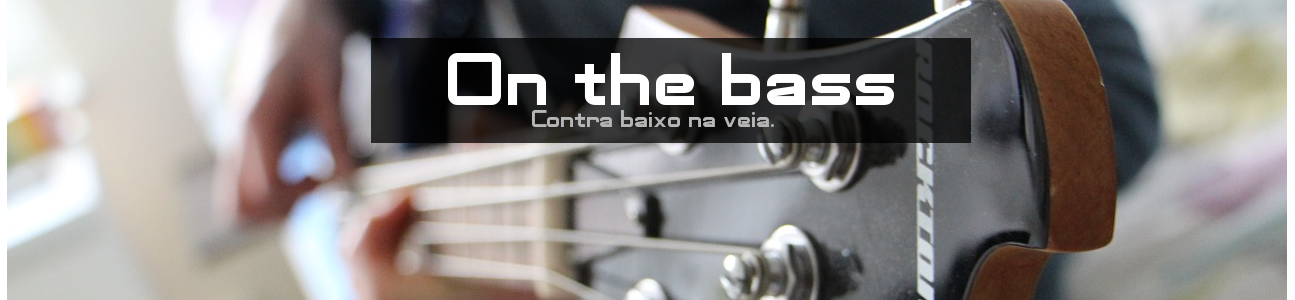
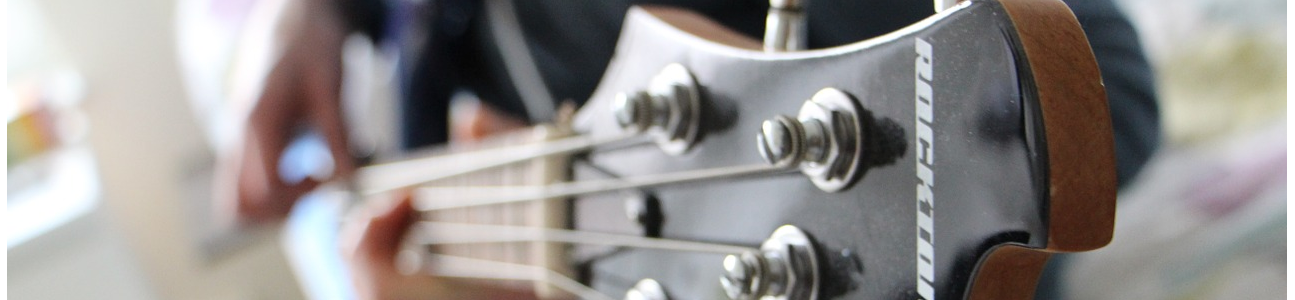
formatando contant tablet e desktop

Changed region(s): [[0.278, 0.12, 0.7722, 0.48]]

diff --git a/wp-content/themes/nova-lite /css/tablet.css b/wp-content/themes/nova-lite /css/tablet.css
@@ -1,0 +1,75 @@
+@media screen and (min-width: 701px) and (max-width: 1024px) { 
+	
+	body { 
+	background:url(../inc/images/background/patterns/fundo1.png);
+	
+}
+	.row{
+	
+	margin-top: 120px;
+}
+
+.content-main{
+	width: 710px;
+	margin-left: 15px;
+	
+	
+	
+}
+}
+
+
+
+
+@media screen and (min-width: 801px) and (max-width: 1199px) {
+	
+	body { 
+	background:url(../inc/images/background/patterns/fundo1.png);
+	
+}
+
+.row{
+	
+	margin-top: -80px;
+}
+
+
+.content-main{
+	width: 600px;
+	border: solid white 1px;
+	padding: 10px;
+	box-shadow: 1px 1px 1px 1px #888888;
+	margin-bottom: 20px;
+	margin-left: 20px;
+	
+	
+}
+
+.texto {
+	
+	text-align:justify;
+	margin-left:155px;
+	margin-top: -157px;
+	
+}
+
+.title {
+	
+	margin-left: 200px;
+	margin-top: -20px;
+}
+.title h3{
+	
+	color: #555555;
+	
+}
+
+.imagem{
+	
+	margin-top: 10px;
+}
+
+
+	
+
+}

diff --git a/wp-content/themes/nova-lite /style.css b/wp-content/themes/nova-lite /style.css
@@ -15,15 +15,17 @@ License URI: http://www.gnu.org/licenses/gpl-3.0.html
 */
 @import url('css/estilo.css');
 @import url('css/menu.css');
+@import url('css/mobile.css');
+@import url('css/desktop.css');
+@import url('css/tablet.css');
 
 
 html { 
 	min-height:101%;
 }
 body { 
-	background:url(inc/images/background/patterns/fundo1.png);
-	width: 100%;
-	height: 500px;
+	
+	
 	background-repeat:no-repeat;
 	background-color: red;
 }

diff --git a/wp-content/themes/nova-lite /css/desktop.css b/wp-content/themes/nova-lite /css/desktop.css
@@ -1,0 +1,21 @@
+
+@media screen and (min-width: 1025px) and (max-width:1500px) {
+
+
+	body { 
+	background:url(../inc/images/background/patterns/fundo1.png);
+	
+}
+
+
+
+.row{
+	
+	margin-top: -80px;
+}
+
+
+
+
+
+}

diff --git a/wp-content/themes/nova-lite /css/menu.css b/wp-content/themes/nova-lite /css/menu.css
@@ -1,4 +1,4 @@
-@media screen and (min-width: 1025px) and (max-width:1500px) {
+
 	
 	
 	#menu {
@@ -145,6 +145,6 @@ p {
 
 
 
-}
+
 
 

diff --git a/wp-content/themes/nova-lite /css/mobile.css b/wp-content/themes/nova-lite /css/mobile.css
@@ -1,0 +1,9 @@
+@CHARSET "UTF-8";
+
+@media screen and (min-width: 1px) and (max-width: 700px) {
+	
+	
+	
+
+	}
+

diff --git a/wp-content/themes/nova-lite /css/estilo.css b/wp-content/themes/nova-lite /css/estilo.css
@@ -37,3 +37,4 @@
 	
 	margin-top: 10px;
 }
+

diff --git a/wp-content/themes/nova-lite /header.php b/wp-content/themes/nova-lite /header.php
@@ -62,4 +62,4 @@ $(document).ready(function(){
 });
 </script>
 
-	 
+	<div class="teste"> <p> Agnaldo<p></div>
